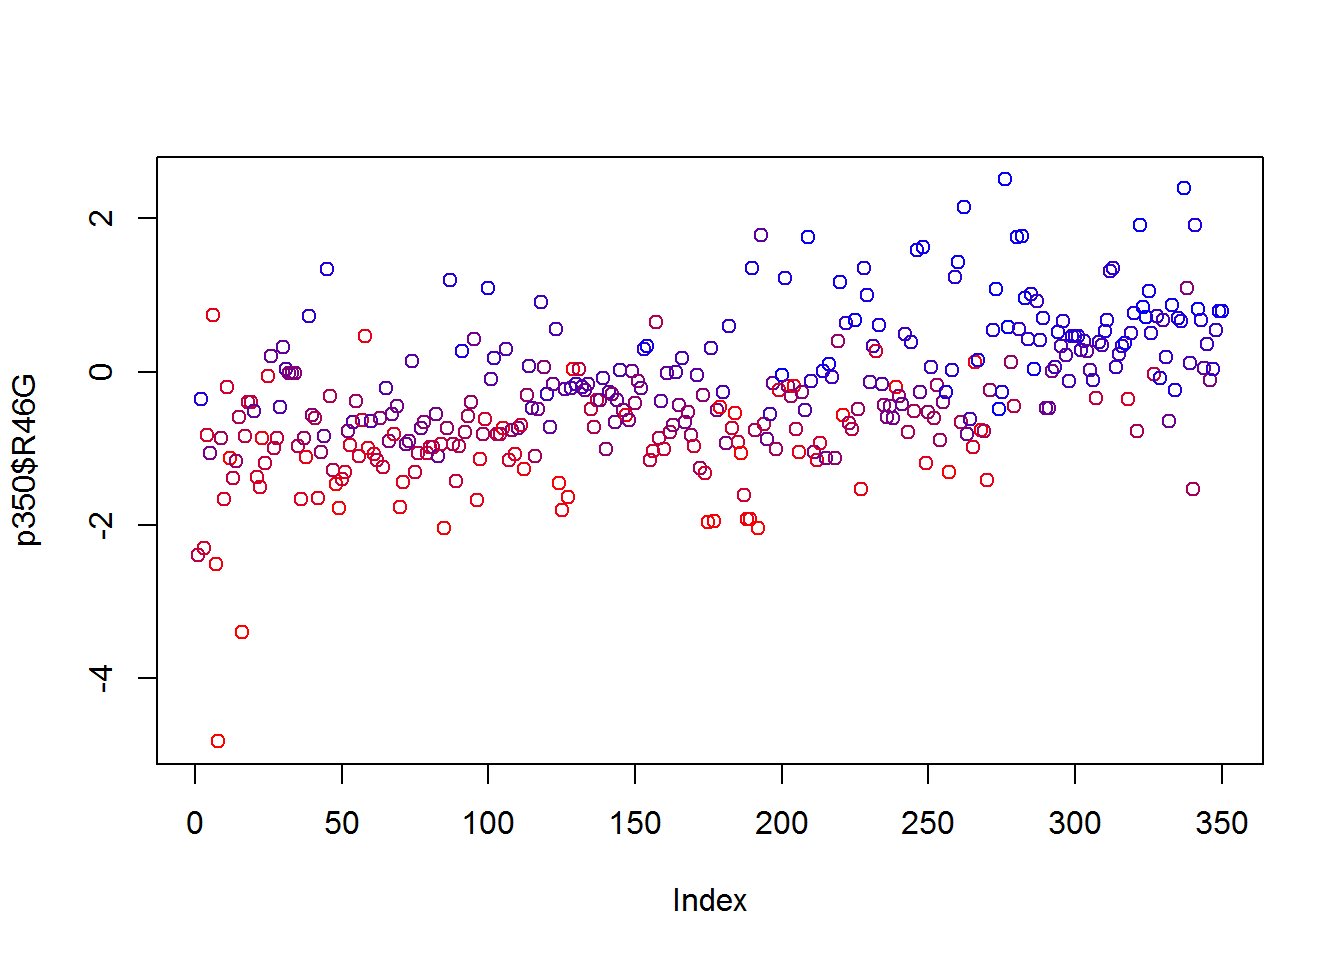
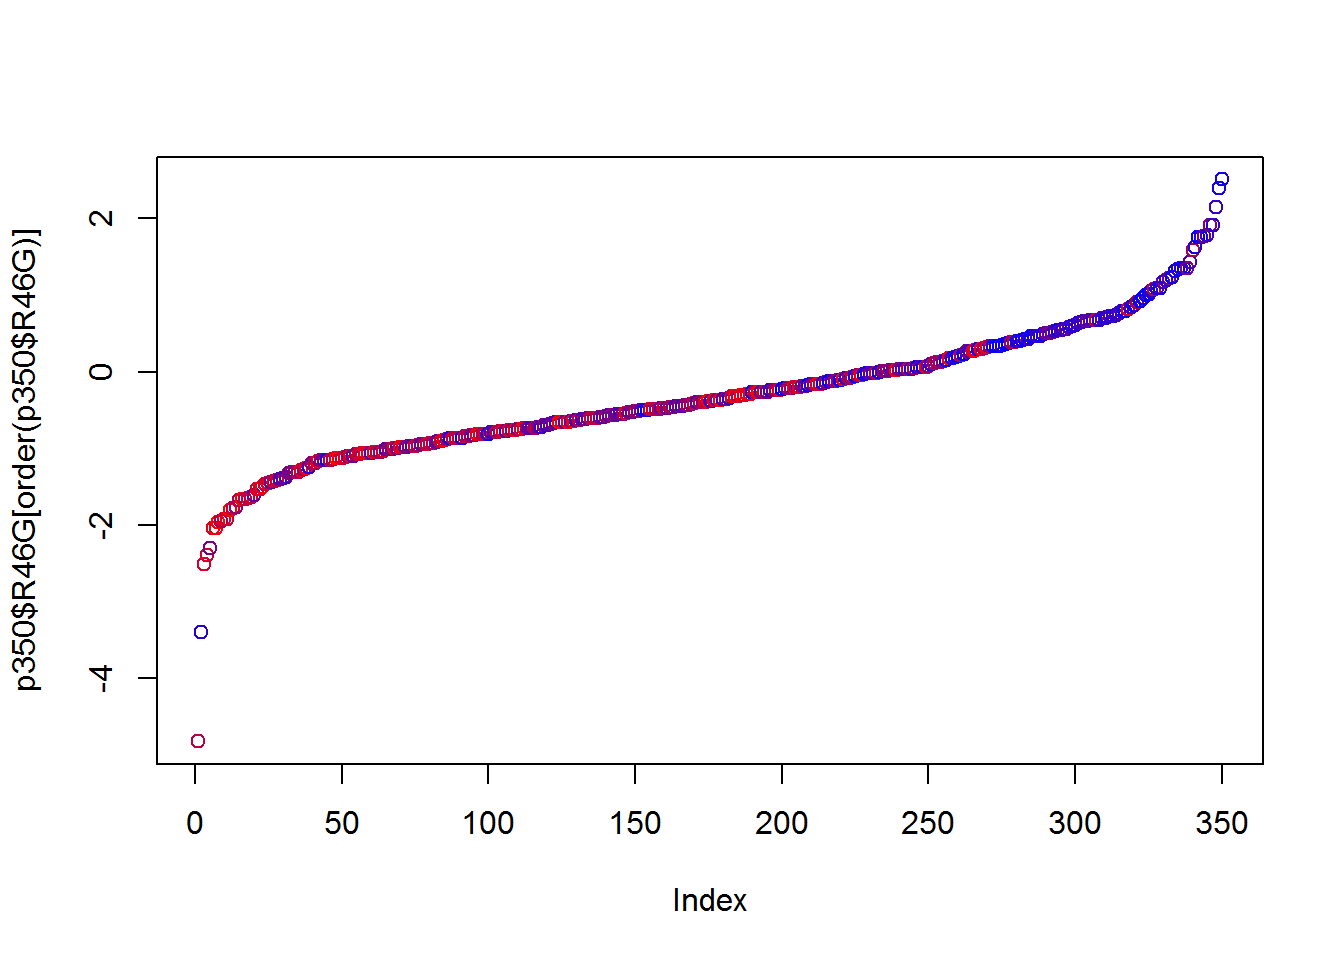
commit

diff --git a/docs/posts/MarksChannels/index.html b/docs/posts/MarksChannels/index.html
@@ -261,7 +261,7 @@ code span.wa { color: #60a0b0; font-weight: bold; font-style: italic; } /* Warni
 <span id="cb4-2"><a href="#cb4-2" aria-hidden="true" tabindex="-1"></a></span>
 <span id="cb4-3"><a href="#cb4-3" aria-hidden="true" tabindex="-1"></a>p350<span class="sc">$</span>color.order <span class="ot">&lt;-</span> <span class="fu">findInterval</span>(p350<span class="sc">$</span>A583T, <span class="fu">sort</span>(p350<span class="sc">$</span>A583T))</span>
 <span id="cb4-4"><a href="#cb4-4" aria-hidden="true" tabindex="-1"></a></span>
-<span id="cb4-5"><a href="#cb4-5" aria-hidden="true" tabindex="-1"></a><span class="fu">plot</span>(<span class="at">x =</span> p350<span class="sc">$</span>R46G,</span>
+<span id="cb4-5"><a href="#cb4-5" aria-hidden="true" tabindex="-1"></a><span class="fu">plot</span>(<span class="at">x =</span> p350<span class="sc">$</span>R46G[<span class="fu">order</span>(p350<span class="sc">$</span>R46G)],</span>
 <span id="cb4-6"><a href="#cb4-6" aria-hidden="true" tabindex="-1"></a>     <span class="at">col =</span> <span class="fu">colors</span>(<span class="fu">nrow</span>(p350))[p350<span class="sc">$</span>color.order])</span></code><button title="Copy to Clipboard" class="code-copy-button"><i class="bi"></i></button></pre></div>
 </details>
 <div class="cell-output-display">
